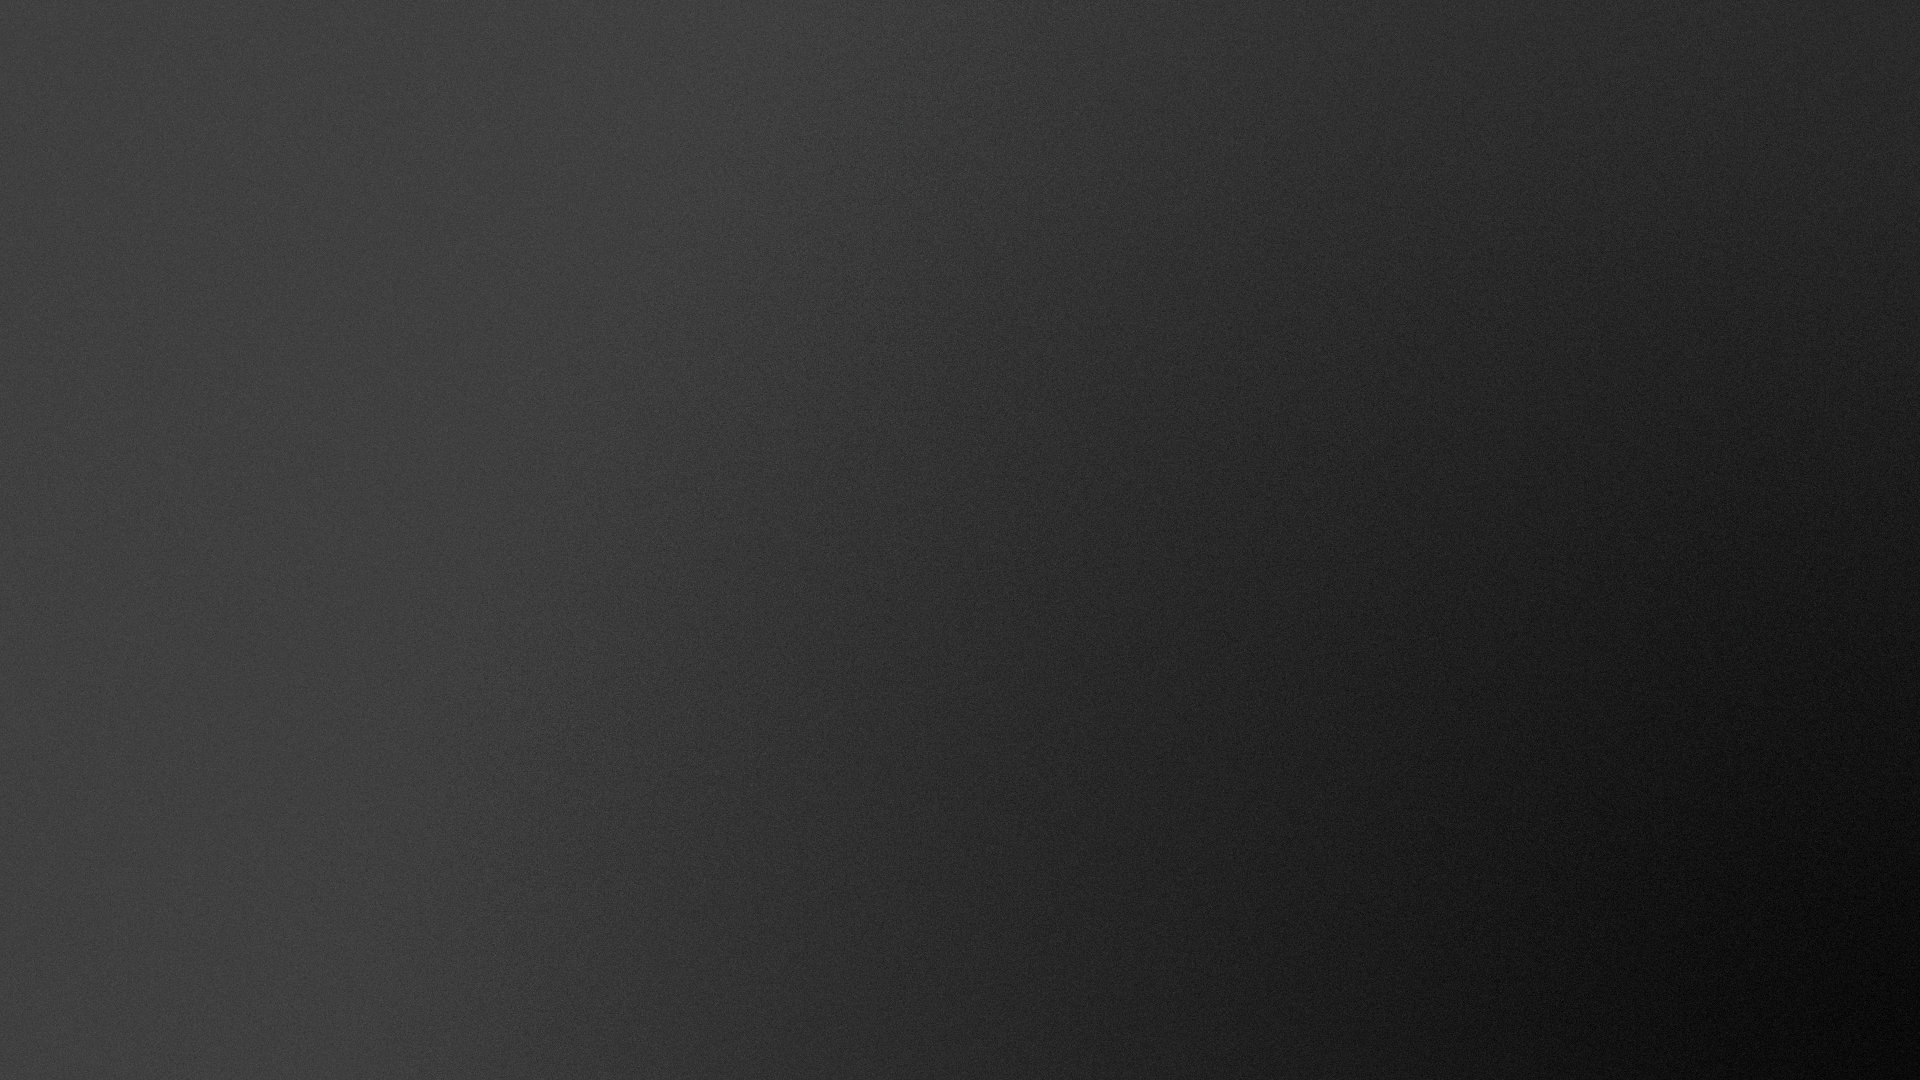
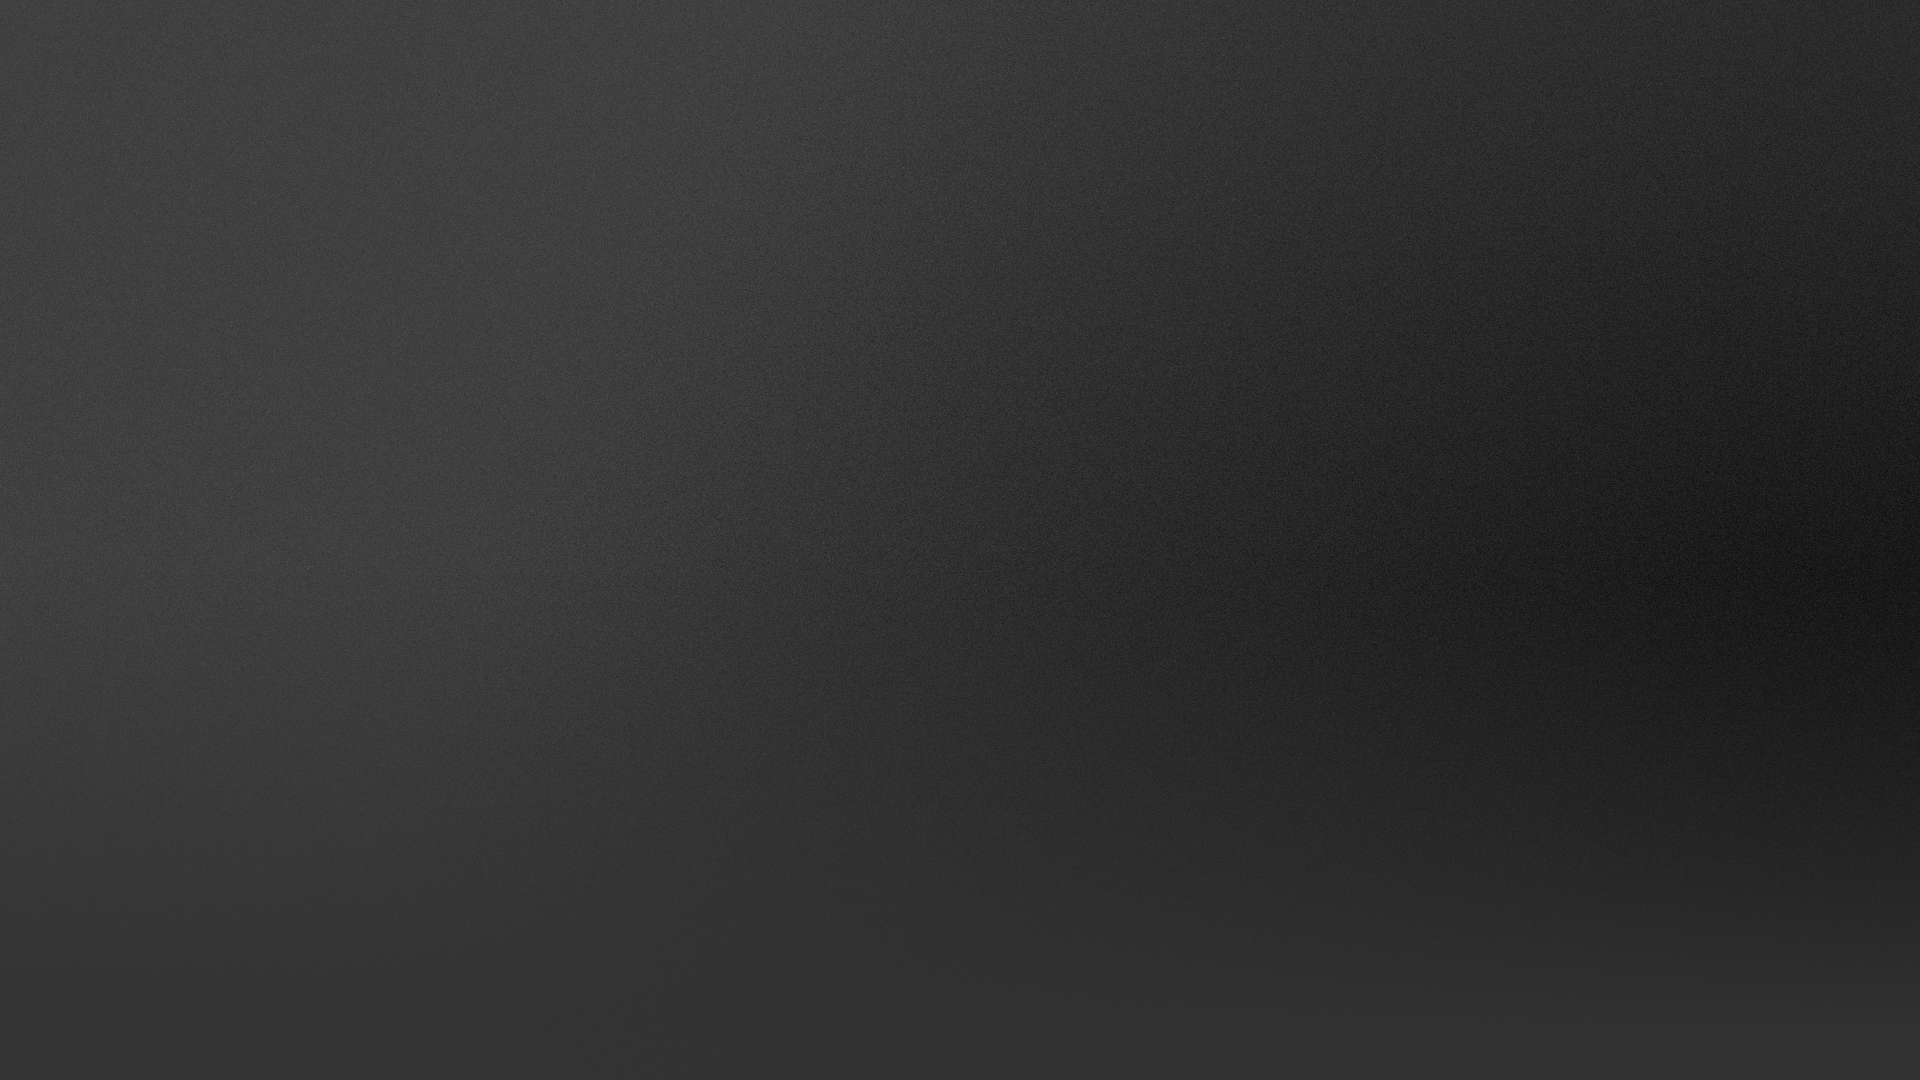
Background selected responsively

Changed region(s): [[0.625, 0.7944, 1.0, 1.0]]

diff --git a/scss/main.scss b/scss/main.scss
@@ -1,5 +1,29 @@
+/* Globals
+-------------------------------------------------- */
+
+$sm: 768;
+$sm_px: $sm + "px";
+$md: 992;
+$md_px: $md + "px";
+$lg: 1200;
+$lg_px: $lg + "px";
+$xl: 1920;
+$xl_px: $xl + "px";
+
+@mixin bp($point){
+	@if $point == sm {
+		@media (min-width: $sm_px) { @content; }
+	}
+	@else if $point == md {
+		@media (min-width: $md_px) { @content; }
+	}
+	@else if $point == lg {
+		@media (min-width: $lg_px) { @content; }
+	}
+}
+
 $img_prefix: "../img/";
-$icon_prefix: $img_prefix + "hex-social-media-icons/png/48x48/";
+
 
 /* Sticky footer styles
 -------------------------------------------------- */
@@ -28,7 +52,20 @@ body {
 
 
 body.dark {
-	background-image: url($img_prefix + "background1920.png");
+	background-attachment: fixed;
+	background-repeat: no-repeat;
+	background-position: center 0;
+	background-color: #333;
+	background-image: url($img_prefix + "background" + $sm + ".png");
+	@include bp(sm){
+		background-image : url($img_prefix + "background" + $md + ".png")
+	}
+	@include bp(md){
+		background-image : url($img_prefix + "background" + $lg + ".png")
+	}
+	@include bp(lg){
+		background-image : url($img_prefix + "background" + $xl + ".png")
+	}
 }
 
 $white: #eee;

diff --git a/css/main.css b/css/main.css
@@ -1,3 +1,5 @@
+/* Globals
+-------------------------------------------------- */
 /* Sticky footer styles
 -------------------------------------------------- */
 html,
@@ -16,7 +18,20 @@ body {
 /* Dark styles
 -------------------------------------------------- */
 body.dark {
-  background-image: url("../img/background1920.png"); }
+  background-attachment: fixed;
+  background-repeat: no-repeat;
+  background-position: center 0;
+  background-color: #333;
+  background-image: url("../img/background768.png"); }
+  @media (min-width: 768px) {
+    body.dark {
+      background-image: url("../img/background992.png"); } }
+  @media (min-width: 992px) {
+    body.dark {
+      background-image: url("../img/background1200.png"); } }
+  @media (min-width: 1200px) {
+    body.dark {
+      background-image: url("../img/background1920.png"); } }
 
 .dark h1, .dark h2, .dark h3, .dark h4, .dark p, .dark span {
   color: #eee; }
